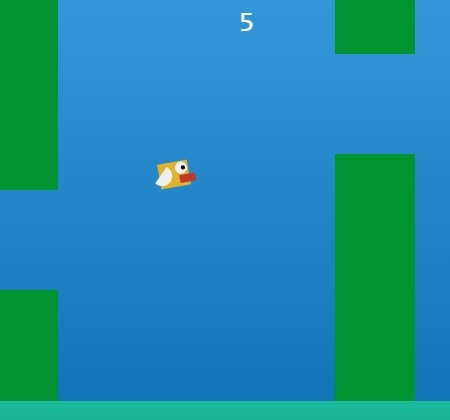
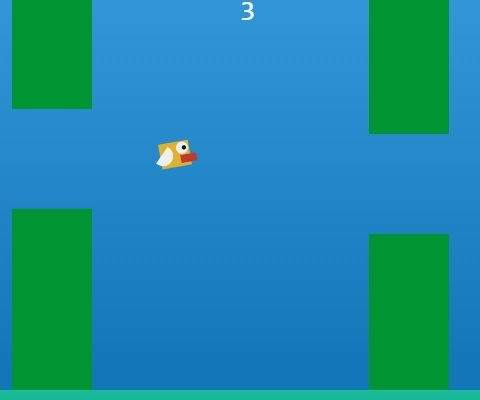
Flappy Bird added to the games list

diff --git a/index.html b/index.html
@@ -24,12 +24,16 @@
     <div id="games-container">
         <ul id="game-list">
             <li>
-                <img src="pong/images/screenshot.jpg" alt="Pong">
-                <a href="pong/">Pong</a>
+                <img src="flappy-bird/images/screenshot.jpg" alt="Flappy Bird">
+                <a href="flappy-bird/">Flappy Bird</a>
             </li>
             <li>
                 <img src="snake/images/screenshot.jpg" alt="Snake">
                 <a href="snake/">Snake</a>
+            </li>
+            <li>
+                <img src="pong/images/screenshot.jpg" alt="Pong">
+                <a href="pong/">Pong</a>
             </li>
             <li>
                 <img src="space-invaders/images/screenshot.jpg" alt="Space Invaders">

diff --git a/style.css b/style.css
@@ -53,9 +53,9 @@ header a{
     list-style: none;
     display: flex;
     flex-wrap: wrap;
-    justify-content: space-evenly;
+    justify-content: space-between;
     margin: 0;
-    padding: 0;
+    padding: 0 30px;
 }
 
 #game-list li{
@@ -65,6 +65,10 @@ header a{
     padding: 20px;
     box-shadow: 0px 3px 10px #bdc3c7;
     flex: 0 0 300px;
+}
+
+#game-list .horizontal{
+    flex: 0 0 400px;
 }
 
 #game-list li img{

diff --git a/README.md b/README.md
@@ -10,8 +10,10 @@ The games can be viewed here: [Demo Link](https://aadityabhusal.github.io/javasc
 
 The following are the games in the collection:
 
-1. [Pong](https://github.com/aadityabhusal/javascript-games/tree/master/pong)
-   
+1. [Flappy Bird](https://github.com/aadityabhusal/javascript-games/tree/master/flappy-bird)
+
 2. [Snake](https://github.com/aadityabhusal/javascript-games/tree/master/snake)
    
-3. [Space Invaders](https://github.com/aadityabhusal/javascript-games/tree/master/space-invaders)
+3. [Pong](https://github.com/aadityabhusal/javascript-games/tree/master/pong)
+   
+4. [Space Invaders](https://github.com/aadityabhusal/javascript-games/tree/master/space-invaders)
